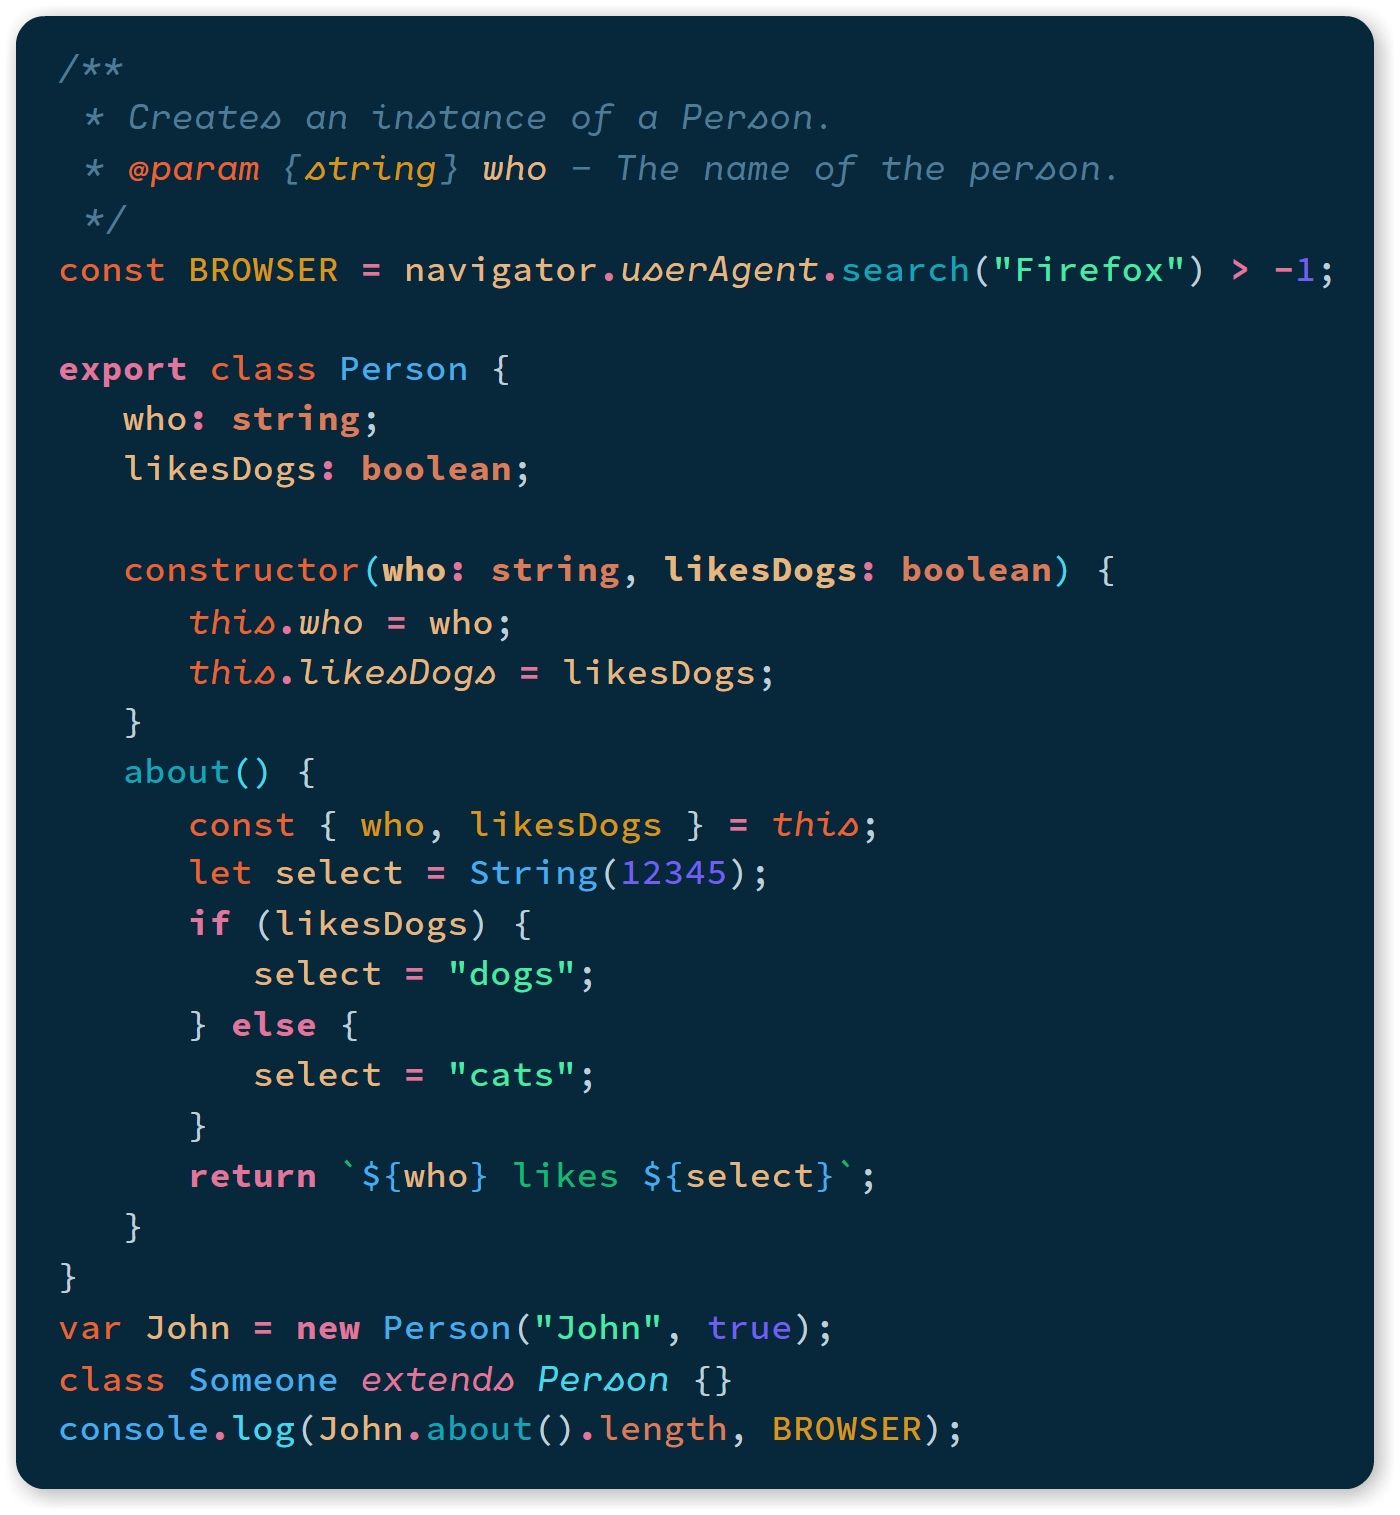
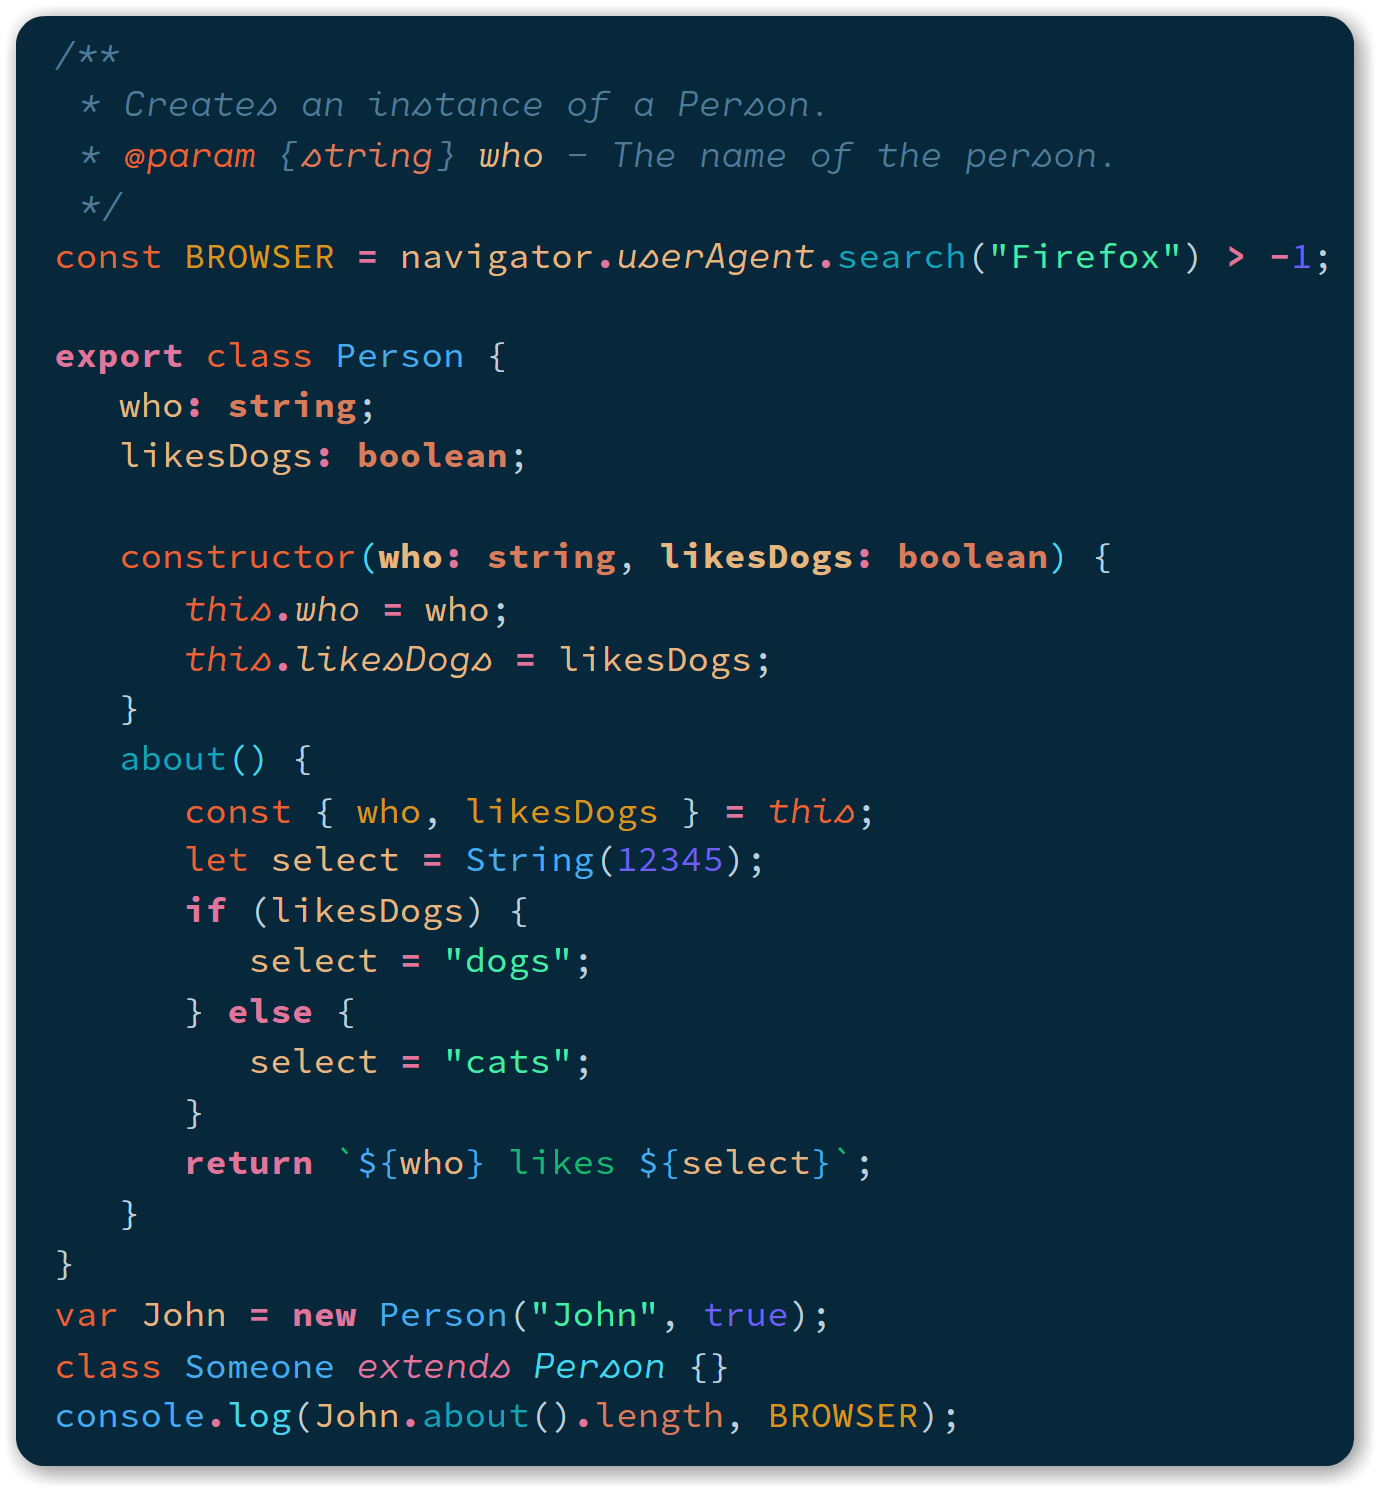
7.19.0

diff --git a/README.md b/README.md
@@ -25,23 +25,23 @@ The _Noctis Lux_ light theme's background is a very saturated very light warm or
 
 ## Noctis Lux
 
-![Noctis Lux Screenshot](https://github.com/liviuschera/noctis/raw/master/images/noctisLux.png)
+![Noctis Lux Screenshot](images/noctisLux.png)
 
 ## Noctis
 
-![Noctis Screenshot](https://github.com/liviuschera/noctis/raw/master/images/noctis.png)
+![Noctis Screenshot](images/noctis.png)
 
 ## Noctis Azureus
 
-![Noctis Azureus Screenshot](https://github.com/liviuschera/noctis/raw/master/images/noctisAzureus.png)
+![Noctis Azureus Screenshot](images/noctisAzureus.png)
 
 ## Noctis Minimus
 
-![Noctis Minimus Screenshot](https://github.com/liviuschera/noctis/raw/master/images/noctisMinimus.png)
+![Noctis Minimus Screenshot](images/noctisMinimus.png)
 
 ## Noctis Uva
 
-![Noctis Uva Screenshot](https://github.com/liviuschera/noctis/raw/master/images/NoctisUva.png)
+![Noctis Uva Screenshot](images/NoctisUva.png)
 
 ## Noctis Viola
 
@@ -178,10 +178,10 @@ The color names were matched using the excellent online tools [Name that Color](
 | Azure Radiance   | ![#0094f0](https://placehold.it/15/0094f0/000000?text=+) `#0094f0` | Code that needs to stand out                              |
 | Electric Violet  | ![#5842ff](https://placehold.it/15/5842ff/000000?text=+) `#5842ff` | Numbers & Booleans                                        |
 | PBrink Pink      | ![#ff5792](https://placehold.it/15/ff5792/000000?text=+) `#ff5792` | Keywords & Operators                                      |
-| Tenne            | ![#ff5b1a](https://placehold.it/15/ff5b1a/000000?text=+) `#ff5b1a` | Function & Variable Declaration, Tags & `this`            |
-| Flame Pea        | ![#bf6440](https://placehold.it/15/bf6440/000000?text=+) `#bf6440` | Object properties, ID selectors in CSS & Type annotations |
-| Pirate Gold      | ![#b38600](https://placehold.it/15/b38600/000000?text=+) `#b38600` | Attributes, Constants                                     |
-| Dark Orange      | ![#ff8c00](https://placehold.it/15/ff8c00/000000?text=+) `#ff8c00` | Variables & Parameters                                    |
+| Trinidad         | ![#e64100](https://placehold.it/15/e64100/000000?text=+) `#e64100` | Function & Variable Declaration, Tags & `this`            |
+| Santa Fe         | ![#ba785e](https://placehold.it/15/ba785e/000000?text=+) `#ba785e` | Object properties, ID selectors in CSS & Type annotations |
+| Dark Goldenrod   | ![#a88c00](https://placehold.it/15/a88c00/000000?text=+) `#a88c00` | Attributes, Constants                                     |
+| Yellow Sea       | ![#f49725](https://placehold.it/15/f49725/000000?text=+) `#f49725` | Variables & Parameters                                    |
 
 ## Installation
 

diff --git a/CHANGELOG.md b/CHANGELOG.md
@@ -1,8 +1,19 @@
 # Change Log
 
+**7.19.0**
+
+-  _Noctis Lux_
+   -  Dark Orange `#ff8c00` &rarr; Yellow Sea `#f49725` - changed
+   -  Flame Pea `#bf6440` &rarr; Santa Fe `#ba785e`- changed
+   -  Tenne `#ff5b1a` &rarr; Trinidad `#e64100` - changed
+   -  Pirate Gold `#b38600` &rarr; Dark Goldenrod `#a88c00` - changed
+-  **PHP** &rarr; changed embedded SQL highlighting
+-  **JSDoc** &rarr; fixed type annotations
+-  updated README
+
 **7.18.0**
 
--  **Poweshell** &rarr; improvements
+-  **Powershell** &rarr; improvements
 -  **Twig** &rarr; added support (requires [Twig Language 2](https://marketplace.visualstudio.com/items?itemName=mblode.twig-language-2) extension)
 -  updated README
 
@@ -43,10 +54,8 @@
 ## **7.11.0**
 
 -  _Noctis Lux_
-   -  Carrot Orange `#ee962b` &rarr; Dark Orange
-      `#ff8c00` - changed
-   -  Reno Sand `#a86615` &rarr; Flame Pea
-      `#bf6440` - changed
+   -  Carrot Orange `#ee962b` &rarr; Dark Orange `#ff8c00` - changed
+   -  Reno Sand `#a86615` &rarr; Flame Pea `#bf6440` - changed
    -  Grenadier `#d13b00` &rarr; Tenne `#ff5b1a` - changed
 -  _Noctis Minimus_
    -  Dust Storm `#e1cbbc` &rarr; Old Rose `#c38e79` - changed
